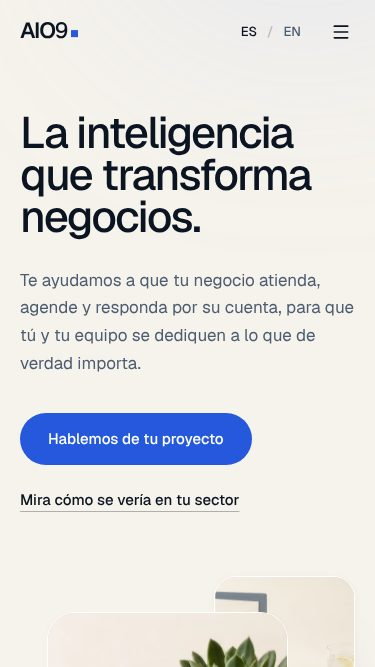
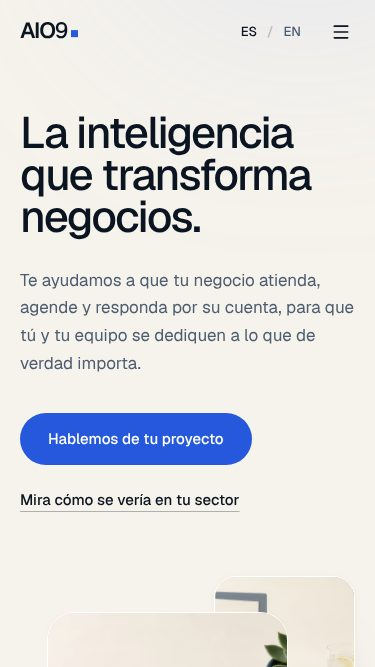
Replace the healthcare photo with an anatomically correct stethoscope
The previous image showed tubing joined in a closed loop with no ear tips.
The new one has two ear tubes with ear tips, Y tubing and one chest piece,
at the same 2560x1440 as the others, with its own framing for the hero's
portrait crop so the ear tips stay in view.

Claude-Session: https://claude.ai/code/session_01EWRUrFV6nYxUSpwozbPekn

Changed region(s): [[0.4693, 0.9295, 0.7627, 1.0]]

diff --git a/src/data/industries.ts b/src/data/industries.ts
@@ -27,6 +27,8 @@ export interface Industry {
   image: StaticImageData;
   /** CSS object-position used when the photo is cropped. */
   focus: string;
+  /** Framing for the narrow portrait crop in the hero, when it needs its own. */
+  heroFocus?: string;
   /**
    * One entry per step of the demonstration: how long that step stays on
    * screen (ms). The step labels live in the dictionaries and must have the
@@ -40,7 +42,7 @@ export interface Industry {
 }
 
 export const industries: readonly Industry[] = [
-  { id: "healthcare", icon: Stethoscope, theme: themes.healthcare, number: "01", image: healthcare, focus: "30% 65%", stepDurations: [1000, 1100, 1300, 1200, 1000, 1400] },
+  { id: "healthcare", icon: Stethoscope, theme: themes.healthcare, number: "01", image: healthcare, focus: "48% 55%", heroFocus: "31% 55%", stepDurations: [1000, 1100, 1300, 1200, 1000, 1400] },
   { id: "hospitality", icon: UtensilsCrossed, theme: themes.hospitality, number: "02", image: hospitality, focus: "58% 50%", stepDurations: [1000, 1100, 1400, 1200, 1400] },
   { id: "realEstate", icon: House, theme: themes.realEstate, number: "03", image: realEstate, focus: "45% 55%", stepDurations: [1000, 1100, 1500, 1300, 1100, 1400] },
   { id: "retail", icon: ShoppingBag, theme: themes.retail, number: "04", image: retail, focus: "62% 50%", stepDurations: [1000, 1300, 1300, 1200, 1400] },

diff --git a/src/components/hero/HeroStack.tsx b/src/components/hero/HeroStack.tsx
@@ -62,7 +62,7 @@ export function HeroStack({
     key: id,
     src: industryById[id].image,
     alt: industries[id].alt,
-    focus: industryById[id].focus,
+    focus: industryById[id].heroFocus ?? industryById[id].focus,
   }));
 
   return (

diff --git a/docs/IMAGES.md b/docs/IMAGES.md
@@ -31,12 +31,16 @@ Todas comparten este prompt base:
 
 | Archivo | Objetos (acento azul) |
 |---|---|
-| `healthcare.webp` | Estetoscopio azul, tablilla con hoja de citas, calendario, suculenta en maceta azul marino |
+| `healthcare.webp` | Estetoscopio azul (dos olivas, tubo en Y, una campana), tablilla con hoja de citas, calendario, suculenta en maceta azul marino |
 | `hospitality.webp` | Menú de cuero azul marino, plato de pasta, servilleta azul |
 | `real-estate.webp` | Maqueta de casa con puerta azul, llaves con llavero azul marino |
 | `retail.webp` | Bolsa kraft con suéter azul, tenis blancos, lector de tarjetas |
 | `services.webp` | Portafolio azul marino, documentos, pluma azul, lentes, calculadora, café |
 | `logistics.webp` | Caja con cinta azul, paquete azul marino, lector de códigos |
+
+La foto de salud se regeneró una vez: en la primera versión el estetoscopio
+no tenía olivas y el tubo formaba un aro cerrado. Conviene revisar que los
+objetos generados sean correctos, no solo bonitos.
 
 (Series anteriores descartadas: arquitectura sofisticada, negocios cotidianos
 fotografiados, ilustraciones monocromas en azul y renders 3D a color.)
